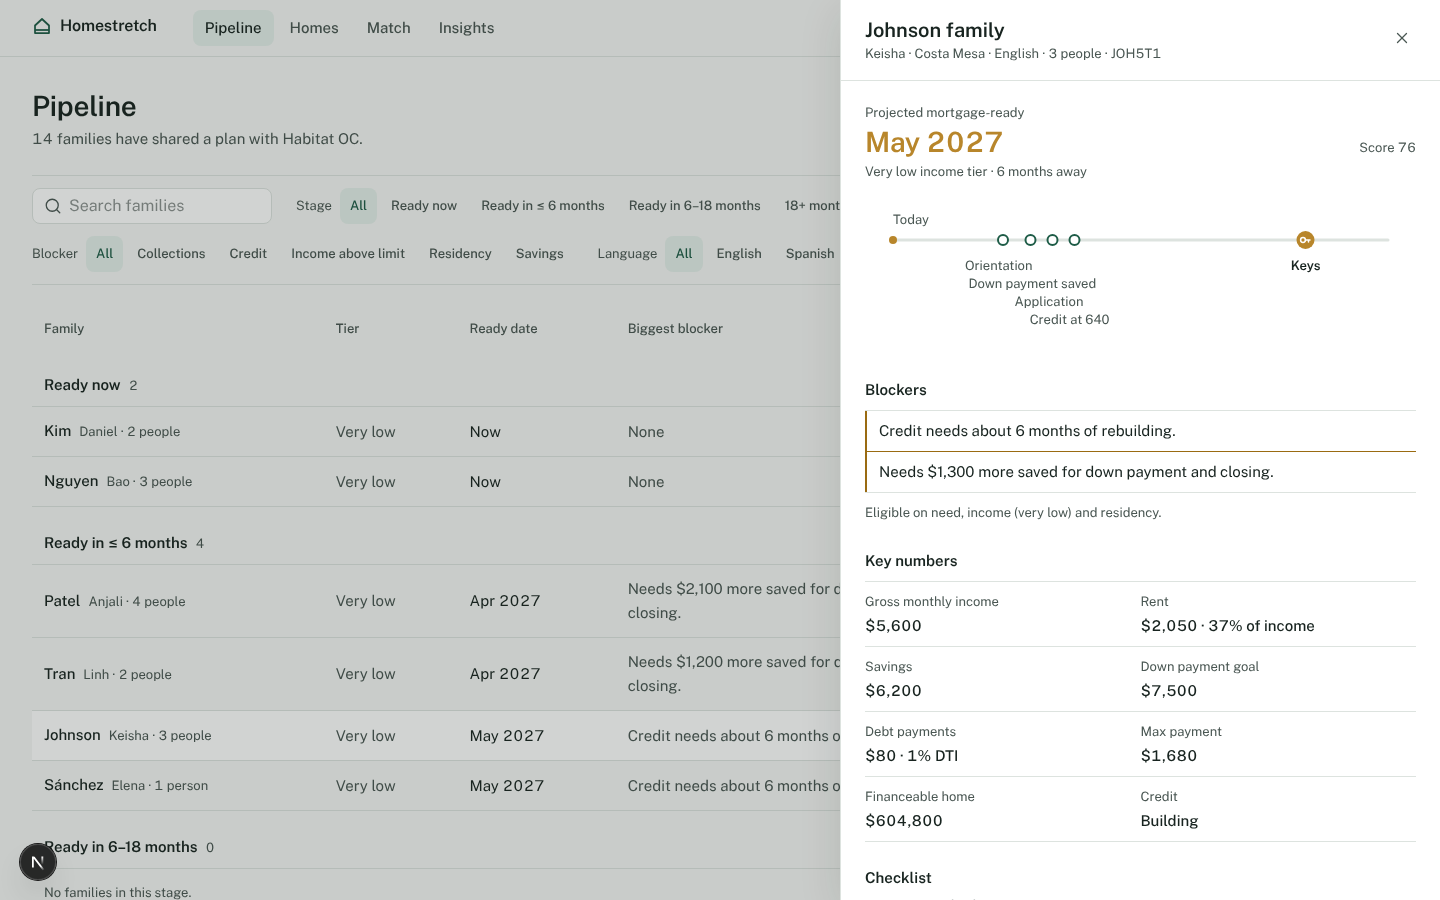
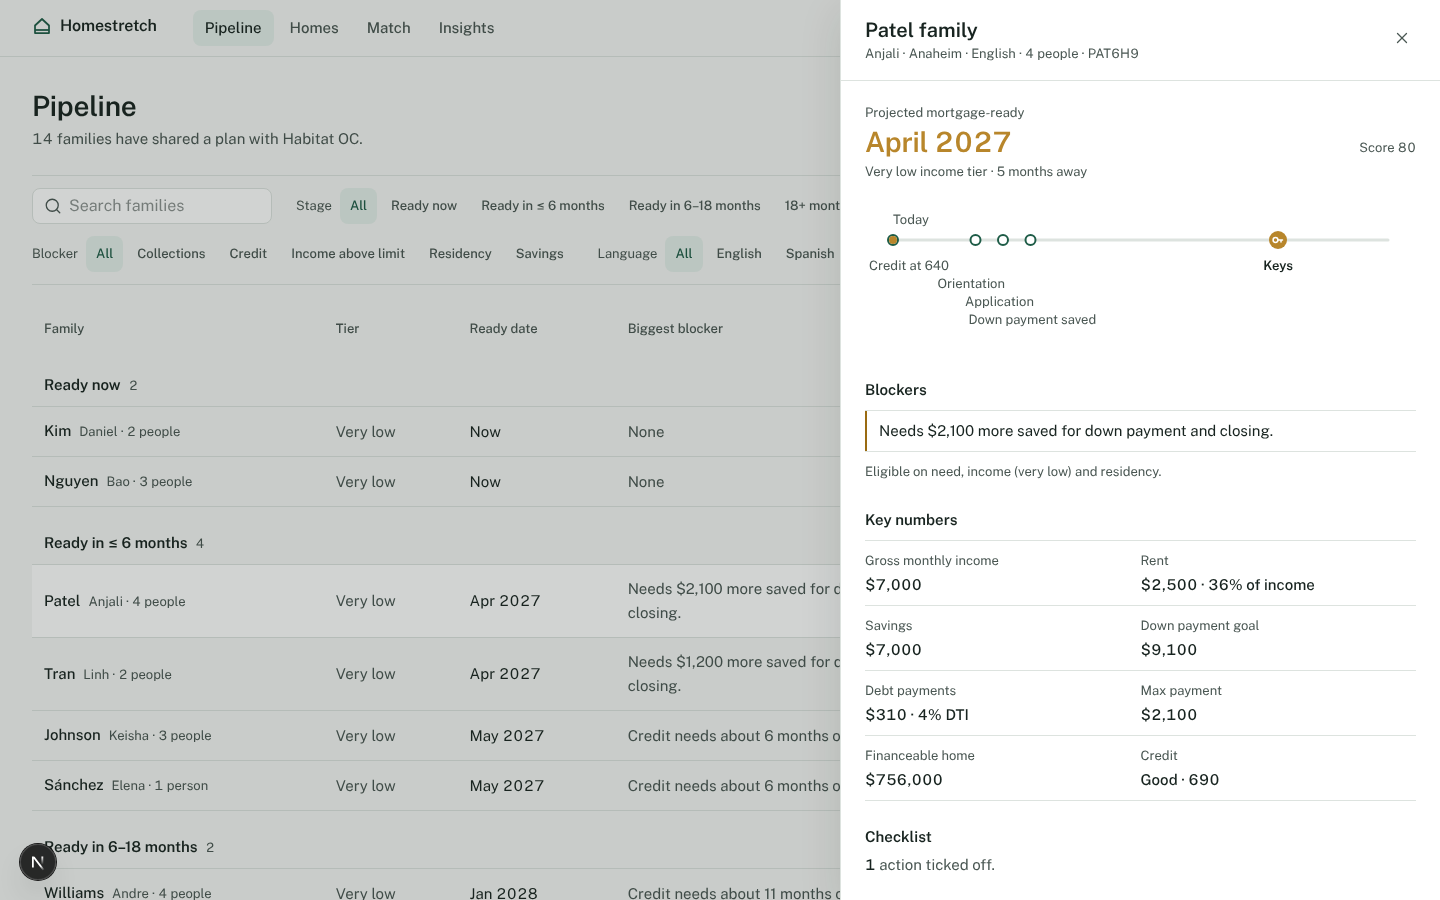
feat(step-9): mount counselor handoff on result, rebalance seed stages
Claude-Session: https://claude.ai/code/session_01SgMgAH4mQZ1WxjRCKQkrTx

diff --git a/lib/seedData.ts b/lib/seedData.ts
@@ -80,7 +80,7 @@ export const SEED_FAMILIES: SeedFamily[] = [
   {
     code: 'LOP8D2', surname: 'López', givenName: 'Carmen', city: 'Garden Grove', language: 'es', daysSinceActivity: 9,
     profile: { ...base, householdSize: 3, grossMonthlyIncome: 4700, rent: 1950, bedrooms: 1, occupants: 3,
-      debts: [{ kind: 'card', balance: 3900, minPayment: 110 }], savings: 1800, creditBand: 'unknown', levers: L(150, 200) },
+      debts: [{ kind: 'card', balance: 3900, minPayment: 110 }], savings: 1800, creditBand: 'unknown', levers: L(200, 300) },
     ticked: [0, 2],
   },
   {
@@ -98,7 +98,7 @@ export const SEED_FAMILIES: SeedFamily[] = [
     code: 'WIL2C8', surname: 'Williams', givenName: 'Andre', city: 'Santa Ana', language: 'en', daysSinceActivity: 15,
     profile: { ...base, householdSize: 4, grossMonthlyIncome: 6200, rent: 2400, bedrooms: 2, occupants: 4,
       debts: [{ kind: 'card', balance: 6500, minPayment: 190 }, { kind: 'car', balance: 11000, minPayment: 390 }],
-      savings: 4200, creditBand: 'building', creditScore: 612, levers: L(250, 200) },
+      savings: 4200, creditBand: 'building', creditScore: 612, levers: L(300, 300) },
     ticked: [1],
   },
   {

diff --git a/components/result/FamilyExtras.tsx b/components/result/FamilyExtras.tsx
@@ -13,6 +13,7 @@ import type { ResultExtrasProps } from './ResultScreen';
 import { Section } from './Panels';
 import { PlanChecklist, PlanSkeleton, UnderwritersEye } from './PlanChecklist';
 import { LetterEditor } from './LetterEditor';
+import { CounselorHandoff } from '@/components/CounselorHandoff';
 
 type StoredPlan = { lang: Lang | null; plan: PlanOutput | null; source?: string; key?: string };
 
@@ -113,6 +114,8 @@ export function FamilyExtras({ profile }: ResultExtrasProps) {
         {source === 'fallback' && plan && <p className="t-helper mb-3 text-ink-2">{t('plan.error')}</p>}
         {!plan ? loading && !slow ? <div className="h-[320px]" /> : <PlanSkeleton /> : <PlanChecklist plan={plan} checklist={checklist} onToggle={toggle} />}
       </Section>
+
+      <CounselorHandoff profile={profile} code={code ?? undefined} lang={lang} />
 
       <Section title={t('plan.saveTitle')} id="save">
         <div className="panel !p-5">

diff --git a/scripts/shot-staff.ts b/scripts/shot-staff.ts
@@ -1,0 +1,12 @@
+import { chromium } from 'playwright';
+(async () => {
+  const b = await chromium.launch(); const p = await b.newPage({ viewport: { width: 1440, height: 900 } });
+  await p.goto('http://localhost:3000/staff/login');
+  await p.fill('input[type=password]', process.env.STAFF_PASSWORD!); await p.keyboard.press('Enter'); await p.waitForSelector('tbody tr', { timeout: 60000 }); await p.waitForTimeout(800);
+  await p.screenshot({ path: 'docs/screenshots/step7-pipeline.png', fullPage: true });
+  await p.getByText('Patel', { exact: true }).click(); await p.waitForTimeout(3500);
+  await p.screenshot({ path: 'docs/screenshots/step7-drawer.png' });
+  await p.goto('http://localhost:3000/staff/insights'); await p.waitForTimeout(1500);
+  await p.screenshot({ path: 'docs/screenshots/step9-insights.png', fullPage: true });
+  await b.close();
+})();
